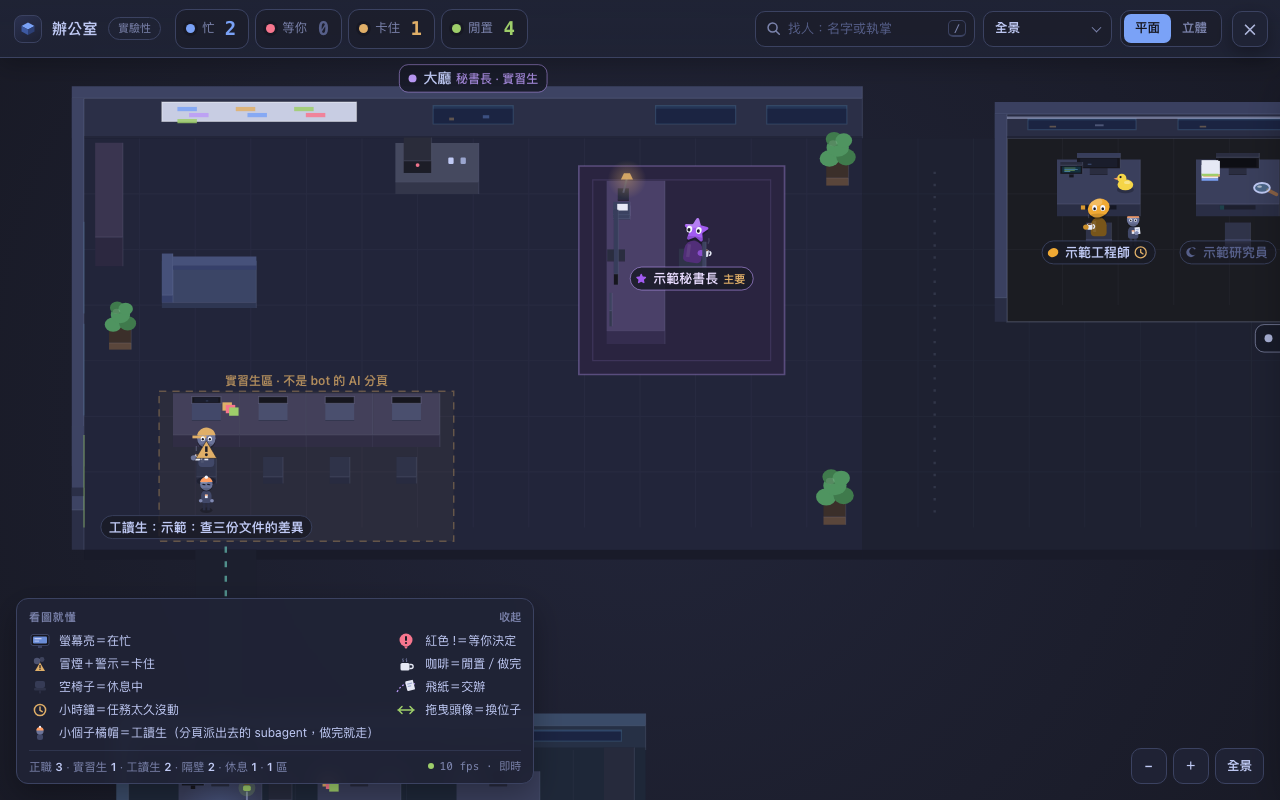
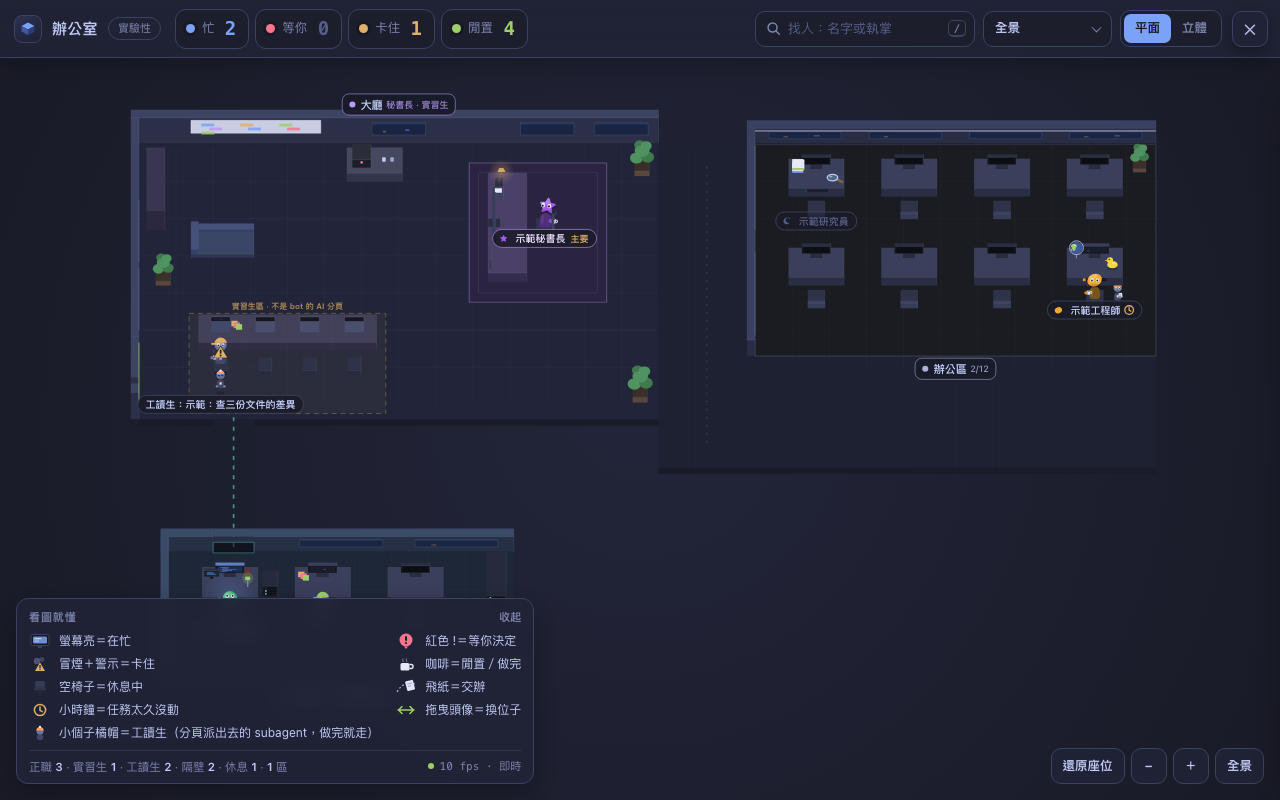
Office: framed on open, Esc from the area picker, no lookup for part-timers
- office.html: the first live snapshot fits the camera to the whole
  floor (boot fitted it to the empty layout); Esc with the focus on the
  area picker now backs out instead of being swallowed.
- StatusTracker.transcript_path(sid) returns only the path the status
  monitor already resolved (no resolve, so no tmux/ps from the office's
  3 s poll); office_helpers() no longer builds a worker context.
- tests_office_ui.py: the floor is in view as it opens (the overview
  shot is taken then), Esc after picking an area, a seat moved by hand
  and accessories come back after a restart.
- tests_office_helpers.py: transcript_path uses the monitor's path only.

diff --git a/web/office.html b/web/office.html
@@ -1421,7 +1421,7 @@ q.addEventListener('blur', () => setTimeout(() => { if (document.activeElement !
 addEventListener('pointerdown', () => kick(), true);   // 任何地方的點按都算操作
 addEventListener('keydown', e => {
   kick();
-  if (e.target && /INPUT|TEXTAREA|SELECT/.test(e.target.tagName)) return;
+  if (e.target && /INPUT|TEXTAREA|SELECT/.test(e.target.tagName)) { if (e.key === 'Escape' && e.target.tagName === 'SELECT') e.target.blur(); else return; }   // 選完區域後焦點留在選單上：Esc 照樣能退出
   if (e.key === 'Escape') { if (drag && drag.mode === 'seat') { drag = null; return; } if (follow) stopFollow(); else if (hl) setHl(hl); else if (HOST && HOST.close) HOST.close(); return; }
   if (e.key === '/' && !e.metaKey && !e.ctrlKey) { e.preventDefault(); if (getComputedStyle($('#search')).display === 'none') document.body.classList.add('searching'); q.focus(); }
 });
@@ -1575,7 +1575,9 @@ function update(snap, opts = {}) {
     const s = M.seats.get(e.seatKey); if (s) e.walk = makeWalk(routeIn(s), 'in', i * stg); });
   leaving.forEach(e => { if (e.kind === 'helper') { const ps = parentSeat(e), sp = !e.hidden && helperSpot(e); e.walk = ps && sp ? makeWalk([sp, ...routeOut(ps)], 'out') : null; if (!e.walk) M.ents.delete(e.key); if (follow === e.key) stopFollow(); return; }
     const s = M.seats.get(e.seatKey); e.walk = s ? makeWalk(routeOut(s), 'out') : null; if (!e.walk) M.ents.delete(e.key); if (follow === e.key) stopFollow(); });
-  reroute(new Set(born)); M.ver++; statSig = ''; schedule();   // 資料更新只排下一幀，不算使用者操作（閒置照樣降到 5fps）
+  reroute(new Set(born)); M.ver++; statSig = '';
+  if (first && !follow) { goal = fitGoal(); Object.assign(cam, goal); goal = null; }   // 第一份資料：鏡頭對準整層（開機時還沒有資料，對的是空的版面）
+  schedule();   // 資料更新只排下一幀，不算使用者操作（閒置照樣降到 5fps）
   return { added: born.filter(e => e.kind === 'bot').map(e => e.id), seats: born.map(e => e.seatKey) };
 }
 function goLive() { if (!DEMO.live) return; DEMO.live = false; document.body.classList.add('live-data'); $('#tag').textContent = '實驗性'; }

diff --git a/tests_office_ui.py b/tests_office_ui.py
@@ -203,6 +203,12 @@ def run(browser, base, engine):
                            timeout=15000)
     page.wait_for_timeout(600)
     fr = office(page)
+    if shoot:
+        page.screenshot(path=str(SHOTS / "office-overview.png"))      # as it opens: nothing moved by the test
+    seen = fr.evaluate("""() => { const a = __office.assignments(), keys = ['sec', a.eng, a.res, 'p:pid-demo-1:0'];
+        return keys.map(k => { const p = __office.seatScreen(k); return [k, !!p && p.x > 0 && p.x < innerWidth && p.y > 58 && p.y < innerHeight]; }); }""")
+    check("as it opens, the whole floor is in view (lobby, office zone, the paired machine's room)",
+          all(ok for _, ok in seen), seen)
     check("the office opens over the whole window", page.evaluate("""() => { const r = document.getElementById('sfo-overlay').getBoundingClientRect();
         return r.left === 0 && r.top === 0 && r.width === innerWidth && r.height === innerHeight; }"""))
     check("…what it keeps was asked for before it loaded", calls(page, "office_prefs") == 1)
@@ -246,10 +252,6 @@ def run(browser, base, engine):
     check("the demo is off and the demo buttons are hidden",
           fr.evaluate("!__office.demoLive() && document.body.classList.contains('live-data') && getComputedStyle(document.getElementById('addOne')).display === 'none'"))
     check("the tag says experimental", fr.evaluate("document.getElementById('tag').textContent") == "實驗性")
-    fr.evaluate("__office.setArea('all', true)")
-    page.wait_for_timeout(500)
-    if shoot:
-        page.screenshot(path=str(SHOTS / "office-overview.png"))
 
     print(f"[{engine}] a part-timer's panel")
     fr.evaluate("__office.follow('h:s702/b1')")
@@ -298,6 +300,16 @@ def run(browser, base, engine):
           and fr.evaluate("localStorage.getItem('sbOffice.v2.mode')") is None, saved[-1:] if saved else saved)
 
     print(f"[{engine}] closing")
+    fr.select_option("#area", "lobby")
+    page.wait_for_timeout(300)
+    page.keyboard.press("Escape")
+    page.wait_for_timeout(400)
+    check("Esc right after picking an area (focus on the picker) closes the office", page.query_selector("#sfo-overlay") is None)
+    page.click("#btn-office")
+    page.wait_for_function("""() => { const f = document.querySelector('#sfo-overlay iframe');
+        try { return f.contentWindow.__office && Object.keys(f.contentWindow.__office.assignments()).length >= 2; } catch (e) { return false; } }""",
+                           timeout=15000)       # a fresh office: the two bots still in the roster
+    fr = office(page)
     box = page.locator("#sfo-overlay iframe").bounding_box()
     page.mouse.click(box["x"] + box["width"] - 30, box["y"] + 110)     # into the office, on its sky
     page.wait_for_timeout(200)
@@ -348,6 +360,10 @@ def reopen(browser, base, prefs, engine):
     page.wait_for_timeout(500)
     check("after a restart the office comes back in the mode it was left in",
           fr.evaluate("document.querySelector('#mode button[data-m=\"flat\"]').getAttribute('aria-pressed')") == "true")
+    seats = fr.evaluate("__office.assignments()")
+    check("…a seat moved by hand is kept", seats.get("eng") == "z:辦公區#1:7", seats)
+    check("…and the accessories picked", fr.evaluate("__office.items('b:eng')") == ["globe", "duck"],
+          fr.evaluate("__office.items('b:eng')"))
     if shoot:
         page.screenshot(path=str(SHOTS / "office-flat.png"))
     check("no console error after the restart", not errors, errors[:5])
@@ -369,7 +385,7 @@ with sync_playwright() as pw:
                 continue
             try:
                 prefs = run(browser, base, engine)
-                reopen(browser, base, prefs, engine)
+                reopen(browser, base, dict(prefs, seats={"eng": {"zone": "辦公區#1", "slot": 7}}, items={"eng": ["globe", "duck"]}), engine)
             finally:
                 browser.close()
     finally:

diff --git a/tests_office_helpers.py b/tests_office_helpers.py
@@ -8,8 +8,8 @@ restart of the app.
   - a fake subagents folder (demo meta files): running and written lately = working; quiet for
     a few minutes = idle; silent 10 minutes = stuck; finished = gone; silent for hours = a
     leftover, not shown; a broken meta file is skipped; a meta file is read once until it changes
-  - office_helpers(): only while the switch is on, only Claude tabs, the transcript path from the
-    status monitor's own lookup, sid → list
+  - office_helpers(): only while the switch is on, only Claude tabs, the transcript path the status
+    monitor already resolved (no lookup of its own), sid → list
   - office_prefs / office_prefs_save: a file in the state folder (known keys only, size-capped,
     an object only), never config.json
 Demo data only. Run: .venv/bin/python tests_office_helpers.py
@@ -121,9 +121,9 @@ class Tracker:
     def __init__(self):
         self.asked = []
 
-    def transcript_path(self, sid, worker):
-        self.asked.append((sid, worker.get("demo")))
-        return str(TRANSCRIPT) if sid == "s1" else ""
+    def transcript_path(self, sid):
+        self.asked.append(sid)
+        return str(TRANSCRIPT) if sid == "s1" else None
 
 
 class App(api_office.OfficeApiMixin):
@@ -134,9 +134,6 @@ class App(api_office.OfficeApiMixin):
                          "s4": types.SimpleNamespace(cmd="claude", alive=True)}
         self._status_tracker = Tracker()
 
-    def _worker_ctx(self, sid, s):
-        return {"demo": sid}
-
 
 app = App()
 off = json.loads(app.office_helpers())
@@ -145,9 +142,17 @@ CFG["settings"]["experimental_office"] = True
 got = json.loads(app.office_helpers())
 check("on: sid → its running subagents", got["success"] and sorted(got["helpers"]) == ["s1"]
       and {r["id"] for r in got["helpers"]["s1"]} == {"quiet", "stale", "nojsonl"}, got)
-check("…only the open Claude tabs are looked at, through the monitor's lookup",
-      sorted(s for s, _ in app._status_tracker.asked) == ["s1", "s4"] and ("s1", "s1") in app._status_tracker.asked,
-      app._status_tracker.asked)
+check("…only the open Claude tabs are looked at, by the path the monitor already has",
+      sorted(app._status_tracker.asked) == ["s1", "s4"], app._status_tracker.asked)
+
+print("the monitor's path, no lookup of its own")
+import agent_status  # noqa: E402
+tr = agent_status.StatusTracker()
+check("nothing resolved yet: no path (and no lookup)", tr.transcript_path("s1") is None)
+tr._path_cache["s1"] = (str(TRANSCRIPT), 0.0)
+tr._path_cache["s2"] = (str(ROOT / "gone.jsonl"), 0.0)
+check("the path the monitor resolved, however old", tr.transcript_path("s1") == str(TRANSCRIPT))
+check("…not one whose file is gone", tr.transcript_path("s2") is None)
 
 print("what the office keeps")
 cfg_file = sf_config.config_file()

diff --git a/api_office.py b/api_office.py
@@ -8,9 +8,10 @@ js_api:
   office_prefs_save(json)   writes it (atomic; known keys only, size-capped). Not config.json.
   office_helpers()          the open Claude Code tabs' running subagents (office_helpers.scan),
                             sid → list. Called by the page only while the office is open, every
-                            ~3 s; the transcript path comes from the status monitor's own lookup
-                            (StatusTracker.transcript_path); only a folder listing, stats and the
-                            small meta files. Refused while the switch is off.
+                            ~3 s; the transcript path is the one the status monitor already
+                            resolved (StatusTracker.transcript_path: no lookup, no subprocess);
+                            only a folder listing, stats and the small meta files. Refused while
+                            the switch is off.
 """
 import json
 import os
@@ -99,7 +100,7 @@ class OfficeApiMixin:
             if agent_status.worker_kind(str(getattr(s, "cmd", "") or "")) != "claude":
                 continue
             try:
-                path = tracker.transcript_path(sid, self._worker_ctx(sid, s))
+                path = tracker.transcript_path(sid)
                 rows = office_helpers.scan(office_helpers.folder_of(path or ""), now)
             except Exception:
                 _swallow(f"office_helpers:{sid}")

diff --git a/office_helpers.py b/office_helpers.py
@@ -9,7 +9,9 @@ own transcript). Only the folder is listed, the files stat'ed and the small meta
 State: written in the last WORKING_S seconds → working; silent for STUCK_S or more while not
 finished → stuck; in between → idle. An unfinished one silent for ABANDONED_S is a leftover of
 a conversation that ended mid-run (measured: most unfinished metas on a working machine were
-weeks old) and is not shown. Pure apart from the file system; no `import main`.
+weeks old) and is not shown. The transcript path is the one the status monitor already resolved
+(StatusTracker.transcript_path): nothing here runs a subprocess. Pure apart from the file system;
+no `import main`.
 """
 import json
 import os

diff --git a/agent_status.py b/agent_status.py
@@ -1612,9 +1612,10 @@ class StatusTracker:
             return None, age
         return res, age
 
-    def transcript_path(self, sid, worker):
-        """The transcript the monitor resolves for this tab, through the same cache (office_helpers)."""
-        return self._resolve_cached(sid, worker, time.time())
+    def transcript_path(self, sid):
+        """The transcript the monitor last resolved for this tab, or None; no lookup of its own (office_helpers)."""
+        path = (self._path_cache.get(sid) or (None, 0))[0]
+        return path if path and os.path.exists(path) else None
 
     def _resolve_cached(self, sid, worker, now):
         path, at = self._path_cache.get(sid, (None, 0))

diff --git a/docs/architecture.md b/docs/architecture.md
@@ -81,7 +81,7 @@ paths, `ACCOUNT_MANAGER`, platform flags, the `Session` class) and builds one
 | | `usage_probe.py` | Per-tab usage/quota probes |
 | | `state_store.py` | The one SQLite file for structured state (`state.db` in the state folder, WAL): tasks, their dependencies, and an append-only event log; schema version in `user_version`, an older file backed up before it is migrated, a newer or unreadable one makes the store `Unavailable` and nothing else breaks; texts masked (`agent_status.redact`); `stuck()` is computed from the last event; `maintain()` backs up daily (7 kept) and drops tasks closed a year ago. Nothing else opens the file |
 | | `sched_view.py` | What a LaunchAgent looks like on the Loops panel: pure functions over a plist and a clock, no launchctl and no `import main`. Cadence text in English and Traditional Chinese (weekdays merged: Mon–Fri 09:50 / 12:30), a month-and-day plist as a one-off of its own (ran / armed / not armed, the warning that launchd repeats it next year, one-offs on one script grouped), KeepAlive jobs, and the user's `schedules.json` (prefixes, titles, groups). `web/schedules.js` + `web/schedules.css` draw its rows |
-| | `office_helpers.py` | A Claude Code tab's subagents for the office: `<transcript minus .jsonl>/subagents/agent-<id>.meta.json` (read only when its mtime or size changes) and the mtime of `agent-<id>.jsonl` (never opened): working within 2 min, stuck after 10 silent min unfinished, a finished one gone, an unfinished one silent 6 h a leftover. The transcript path is the status monitor's own (`StatusTracker.transcript_path`). No `import main` |
+| | `office_helpers.py` | A Claude Code tab's subagents for the office: `<transcript minus .jsonl>/subagents/agent-<id>.meta.json` (read only when its mtime or size changes) and the mtime of `agent-<id>.jsonl` (never opened): working within 2 min, stuck after 10 silent min unfinished, a finished one gone, an unfinished one silent 6 h a leftover. The transcript path is the one the status monitor already resolved (`StatusTracker.transcript_path`: no lookup, no subprocess). No `import main` |
 | | `guide.py` | The guide's data: `guide.json` (one entry per feature: where it is on screen by id, the switch it needs, the settings tab that shows it, {en, zh} title and body, `since`), who gets the first-run tour (`keep_old_install`), what is new since a version. Stdlib only. `tests_guide.py` binds it to the page and to `DEFAULT_CONFIG` |
 | | `connectors/` | The connector core: a service is a JSON description plus one small adapter (`services/`), and the core knows no service by name (`tests_connectors_hygiene.py`). `registry` (read and check descriptions), `engine` (steps, state in `connectors.json`, resumable), `health` (the one status), `clis` (MCP add / remove / check, only `shellbot-*`), `secrets` (key store, mask), `adapter`, `problems` (plain words with a next step). See [`connectors.md`](connectors.md) |
 | | `connectors/services/` | One `<id>.json` per service (+ `<id>.py` when it needs code). A description also says where it sits in the catalog (`category`, `recommended`, `platforms`, `local_app`, and `unavailable` with no routes for one listed before it can be connected). `_claude_connector.py` is the adapter the Claude-account-connector services share, `_apple_events.py` the one Reminders and Calendar share (one local server, one `shellbot-apple-events` entry), both on `_tab_test.py` (the temporary-tab test); each service keeps a two-line `<id>.py`. `tests_connector_claude_apps.py` |

diff --git a/CHANGELOG.md b/CHANGELOG.md
@@ -12,7 +12,7 @@
 
 - **The office (experimental, off by default).** Asked for: a picture of who is doing what, instead of reading
   the sidebar line by line. Settings → General → "Office" turns it on; a button then sits at the foot of the
-  sidebar and opens an office floor over the whole window (Esc or ✕ closes it). Bots are staff at their desks, the
+  sidebar and opens an office floor over the whole window (✕ or Esc closes it; while a person is followed, the first Esc stops following). Bots are staff at their desks, the
   primary bot at the lobby desk, a bot with no open tab asleep at its desk; AI tabs that are not bots are interns at
   a long table; each paired computer is a room with its bots and interns. A desk's screen, a red "!", a yellow sign
   and a coffee cup say busy, waiting on you, stuck and idle, from the same light the tab shows; a bot's open task
@@ -25,7 +25,8 @@
   conversation that ended mid-run) is not shown. Cost: nothing runs while it is closed (no button, no frame, no
   timer with the switch off); while open it refreshes every 3 s and not at all with the window in the background,
   from what the page already holds plus the task store (at most every 9 s) and a folder listing of the open Claude
-  tabs' subagents (file times and their small meta files, never a transcript or a screen). Not wired yet: hand-offs
+  tabs' subagents (file times and their small meta files, at the transcript path the status monitor already
+  resolved; never a transcript's content, a screen or a subprocess). Not wired yet: hand-offs
   are not drawn as flying paper, the office's own text is Chinese only, a paired computer's subagents are not
   shown, the panel's events are only the changes seen while the app runs, and seat order follows the roster order
   (bots have no creation time). Covered by `tests_office_ui.py` (the page and the office together, headless),
@@ -33,7 +34,7 @@
   screenshots in `qa-shots/office-*.png`.
 
   **辦公室（實驗性，預設關閉）。** 需求：一眼看出誰在做什麼，不用一行一行讀側欄。設定 → 一般 →「辦公室」打開後，側欄底部多一顆
-  按鈕，按下去整個視窗變成一層辦公室（Esc 或 ✕ 關閉）。bot 是正職，坐自己的桌子，主要 bot 坐大廳的秘書長辦公桌，沒開分頁的 bot
+  按鈕，按下去整個視窗變成一層辦公室（✕ 或 Esc 關閉；正在跟拍某個人時，第一次 Esc 先停止跟拍）。bot 是正職，坐自己的桌子，主要 bot 坐大廳的秘書長辦公桌，沒開分頁的 bot
   在自己的位子上休息；不是 bot 的 AI 分頁是實習生，坐長桌；配對的每台電腦是一間房，裡面是那台的 bot 和實習生。桌上螢幕亮、紅色
   「!」、黃色警示、咖啡杯分別代表在忙、等你決定、卡住、閒置，跟分頁燈號是同一個來源；bot 手上的任務（`sfctl task`）顯示在追蹤
   面板，任務太久沒動會多一個小時鐘。點一個人可以跟拍；拖曳 bot 可以換位子；座位、配件、平面或立體存在這台電腦（state 資料夾的
